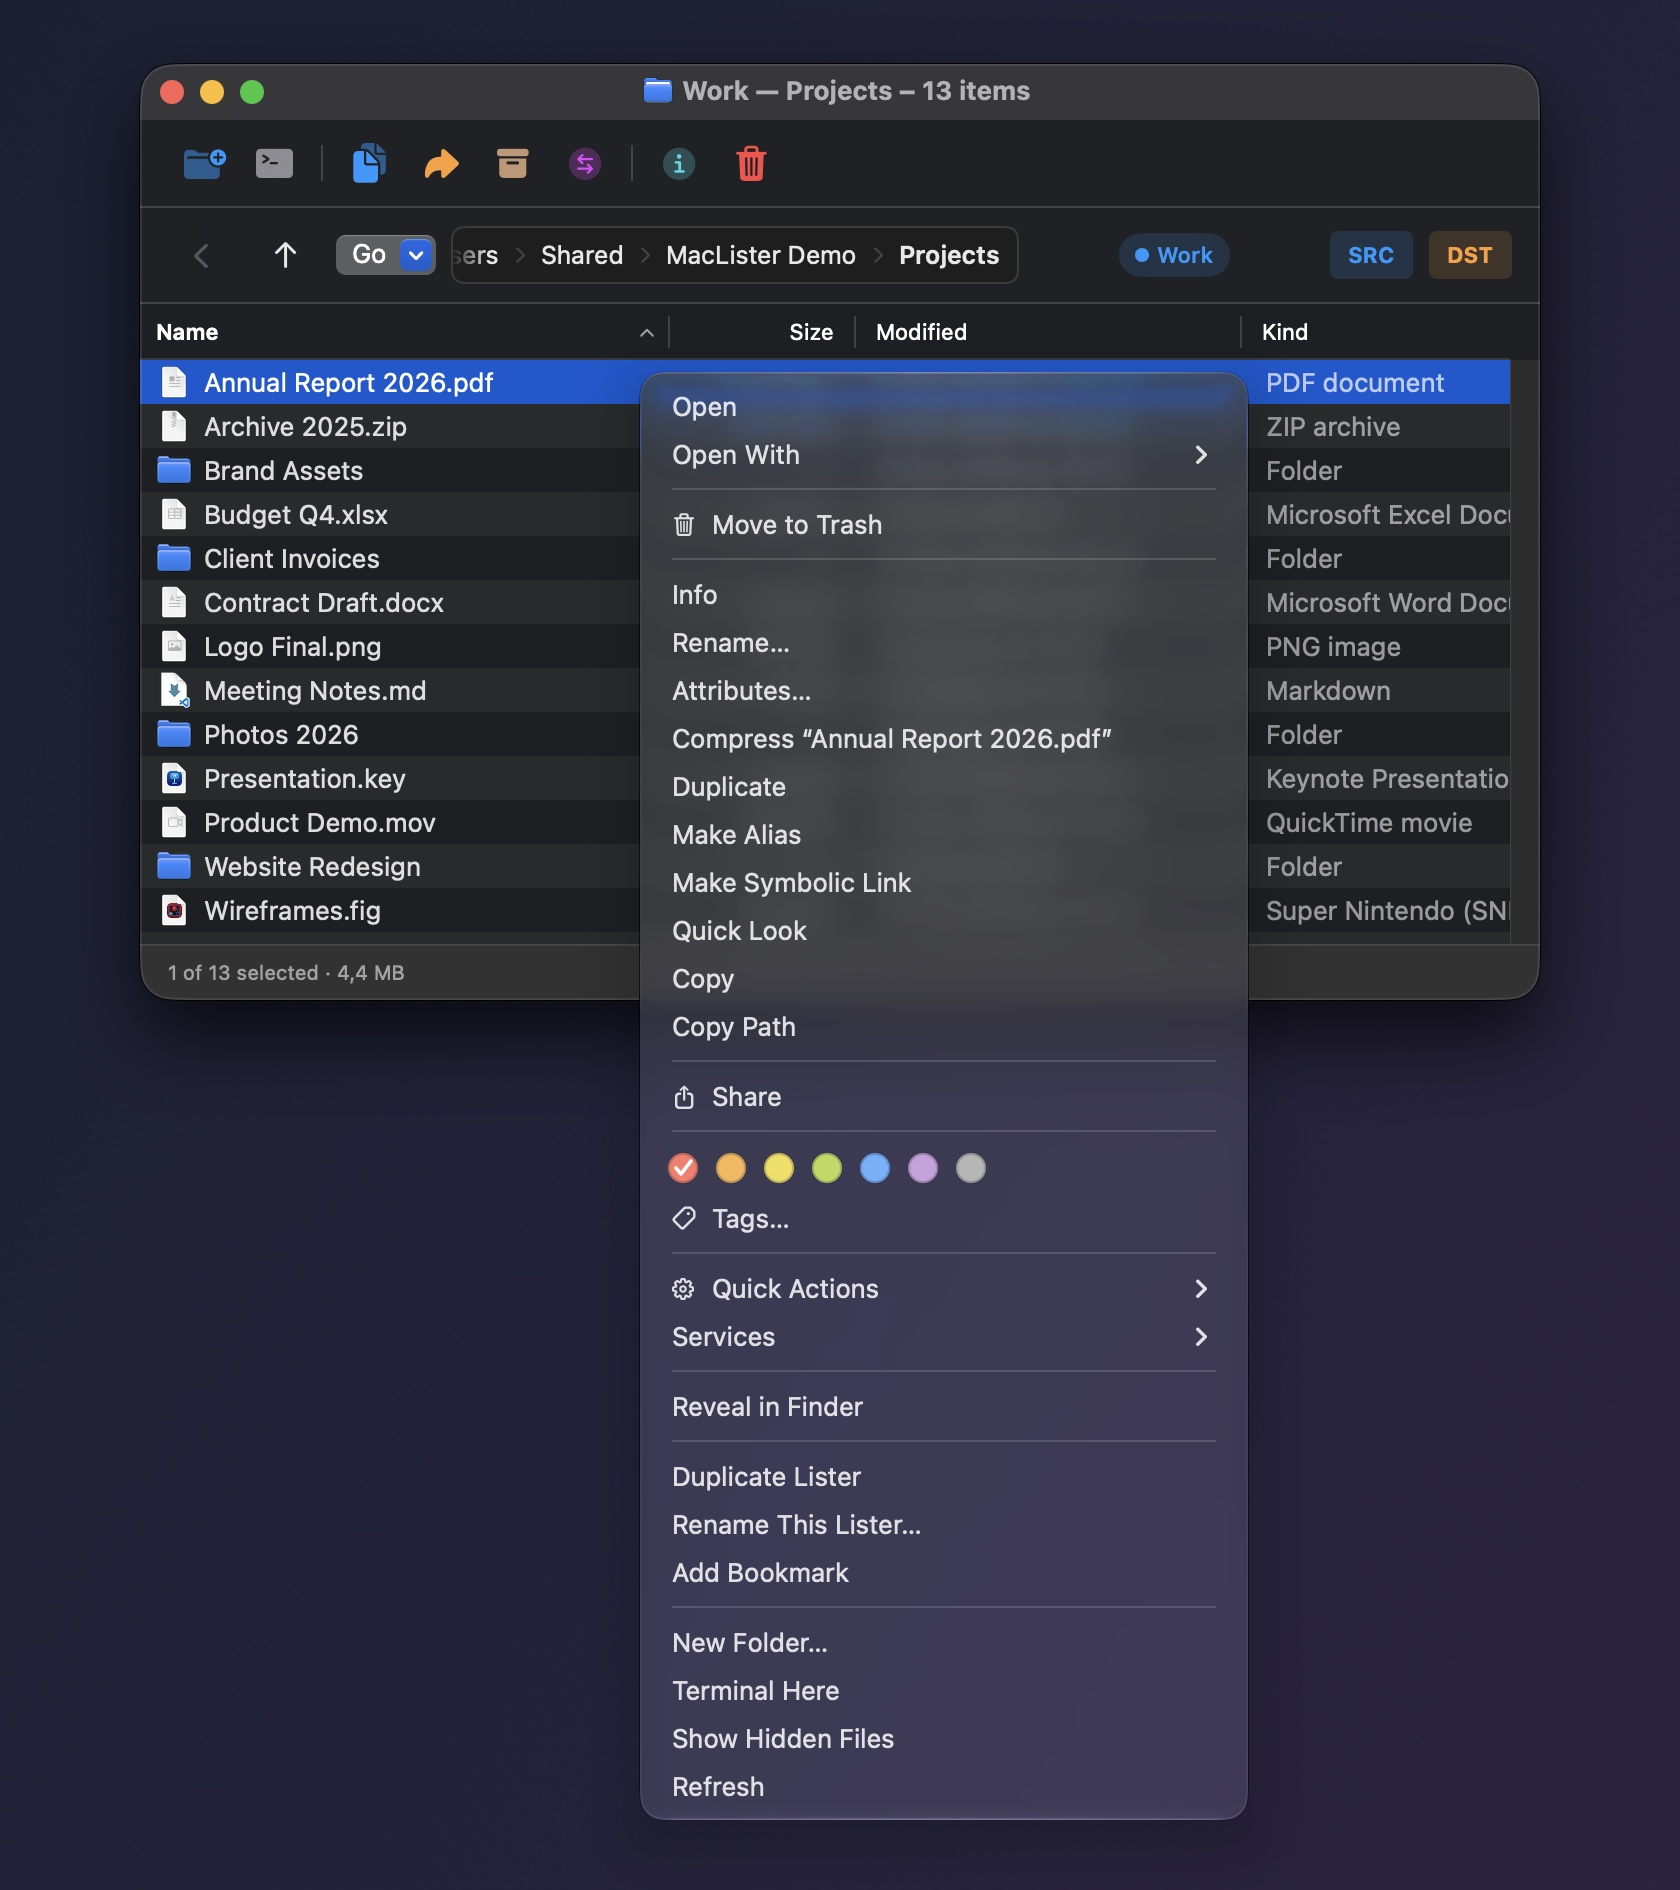
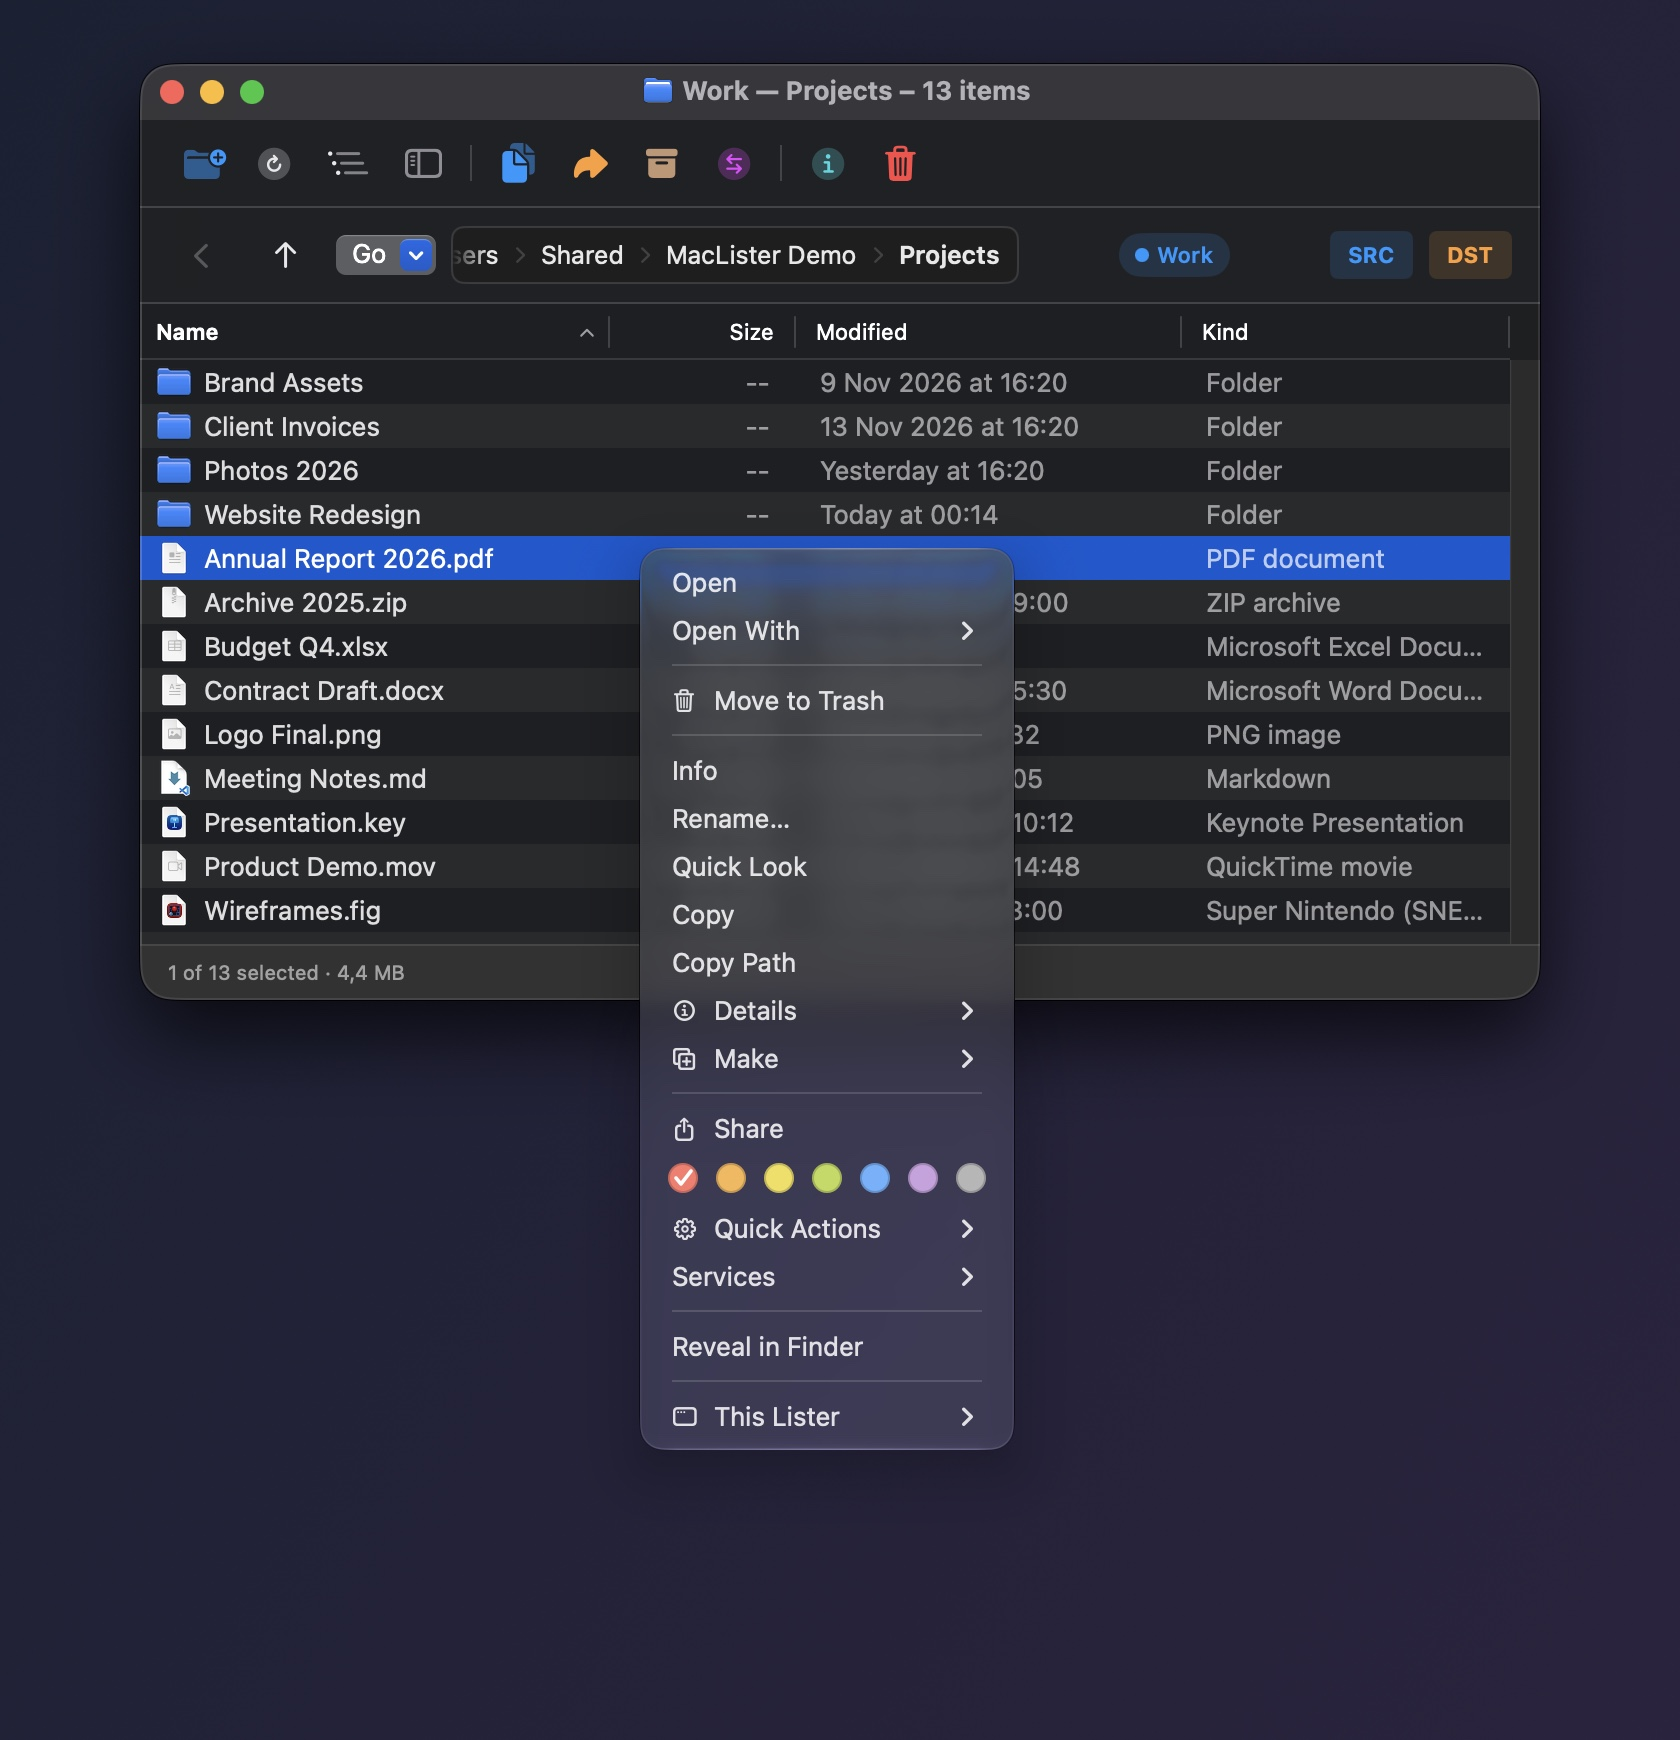
Menu screenshots for the README; clearer Folder tree button
- New context-menu, context-menu-dark and title-bar-menu pictures (the shorter menus); the title-bar menu is shown in both READMEs
- make_screenshots.sh starts the app with the folder tree off, so the pictures never show the user's own folders
- The Toggle tree action is called "Folder tree" and buttons get a tooltip for the newer actions
  (folder tree, find, duplicates, checksums, snapshot, synchronize, flat view, new text file, copy/move as)

Changed region(s): [[0.0619, 0.031, 0.9286, 0.9621]]

diff --git a/Sources/MacLister/SelfTestFeatures.swift b/Sources/MacLister/SelfTestFeatures.swift
@@ -383,6 +383,7 @@ enum SelfTestFeatures {
         }
         later(0.5) {
             guard let tvc = treeController.listerViewController else { return }
+            check(tvc.treeController.scrollView.frame.width >= 120 && !tvc.treeController.scrollView.isHidden, "the tree pane really has a width after layout: \(tvc.treeController.scrollView.frame) split \(tvc.splitView?.frame ?? .zero)")
             check(tvc.treeController.selectedURL?.standardizedFileURL == dirA.appendingPathComponent("big").standardizedFileURL, "the tree follows the lister into a sub-folder")
             tvc.treeController.onSelect?(dirA)
         }
@@ -582,8 +583,8 @@ enum SelfTestFeatures {
             check(["Duplicate Lister", "New Lister", "Set as Source", "Set as Destination", "Swap Source and Destination",
                    "Parent", "Refresh", "Show Hidden Files", "Close Lister", "Close All Listers", "Save Layout", "Restore Layout",
                    "Name This Lister…", "Lister Title…", "Keyboard Shortcuts…", "Connect to Server…", "Terminal Here", "Undo", "Operation Log…",
-                   "Filter…", "Find…", "Find Duplicates…", "Flat View", "Show Folder Tree", "Snapshot This Folder", "Bookmarks", "Recent Folders",
-                   "Bring All Listers to Front", "Move All Listers to This Desktop", "Lock Role"].allSatisfy { wanted in titles.contains { $0.hasPrefix(wanted) } },
+                   "Filter…", "Find…", "Find Duplicates…", "Flat View", "Folder Tree", "Snapshot This Folder", "Bookmarks", "Recent Folders",
+                   "Bring All Listers to Front", "Move All Listers to This Desktop", "Lock Role"].allSatisfy { wanted in titles.contains { $0.hasPrefix(wanted) || $0.hasSuffix(wanted) } },
                   "title-bar menu still has every lister command: \(titles.filter { !$0.isEmpty })")
             check((menu?.items.filter { !$0.isSeparatorItem }.count ?? 99) <= 16, "the title-bar menu is short on its first level: \(menu?.items.filter { !$0.isSeparatorItem }.map(\.title) ?? [])")
             let rolesMenu = menu?.items.first { $0.title == "Source and Destination" }?.submenu

diff --git a/Sources/MacLister/Shortcuts.swift b/Sources/MacLister/Shortcuts.swift
@@ -365,10 +365,35 @@ enum GlobalShortcutActions {
 extension ListerAction {
     /// "swapSourceDestination" → "Swap source destination"
     var title: String {
+        if let custom = Self.friendlyTitles[self] { return tr(custom) }
         var words = ""
         for character in rawValue {
             if character.isUppercase { words += " " + character.lowercased() } else { words.append(character) }
         }
         return tr(words.prefix(1).uppercased() + words.dropFirst())
+    }
+}
+
+extension ListerAction {
+    /// Names that read better than the one made from the action's code name.
+    static let friendlyTitles: [ListerAction: String] = [.toggleTree: "Folder tree"]
+
+    /// What a button with this action shows as its tooltip when it has none of its own. English: like the texts in
+    /// buttons.json it is translated when it is shown.
+    var defaultHelp: String? {
+        switch self {
+        case .toggleTree: return "Show or hide the folder tree beside the list (⌥⌘T)"
+        case .find: return "Search this folder and everything below it (⇧⌘F)"
+        case .findDuplicates: return "Find files with the same content below this folder"
+        case .checksums: return "MD5, SHA-1, SHA-256 and SHA-512 of the selected files"
+        case .snapshot: return "Remember this window's size, position and sort order for this folder"
+        case .forgetSnapshot: return "Forget the snapshot of this folder"
+        case .synchronize: return "Compare the source and destination folders and copy what differs"
+        case .flatView: return "Show every file below this folder as one list"
+        case .newTextFile: return "Create a text file here and open it in your text editor"
+        case .copyAs: return "Copy to the destination under new names (⇧F5)"
+        case .moveAs: return "Move to the destination under new names (⇧F6)"
+        default: return nil
+        }
     }
 }

diff --git a/Sources/MacLister/ButtonEditor.swift b/Sources/MacLister/ButtonEditor.swift
@@ -156,6 +156,7 @@ struct ButtonEditorView: View {
             let titles = [old.title, tr(old.title), tr("New Button"), "New Button", ""]
             if titles.contains(where: { edited.title.caseInsensitiveCompare($0) == .orderedSame }) { edited.title = tr(new.title) }
             if edited.symbol == nil || edited.symbol == old.suggestedSymbol || edited.symbol == "star.fill" { edited.symbol = new.suggestedSymbol }
+            if edited.help == nil || edited.help?.isEmpty == true || edited.help == old.defaultHelp { edited.help = new.defaultHelp }
             edited.action = new
             button.wrappedValue = edited
         })

diff --git a/Sources/MacLister/Bars.swift b/Sources/MacLister/Bars.swift
@@ -294,7 +294,7 @@ struct ButtonBarView: View {
     }
 
     private func help(for button: ListerButton) -> String {
-        let base = button.help.map { "\(tr(button.title)) – \(tr($0))" } ?? tr(button.title)
+        let base = (button.help ?? button.action.defaultHelp).map { "\(tr(button.title)) – \(tr($0))" } ?? tr(button.title)
         return button.hasExtraClicks ? base + "\n" + button.clickHelp : base
     }
 

diff --git a/README.pl.md b/README.pl.md
@@ -189,7 +189,10 @@ W wielu laptopach klawisze F wymagają **fn**.
   \[SRC\] / \[DST\]), Bring All to Front, Close All, *Duplicate Frontmost Lister*, układy, *Cofnij*, *Dziennik operacji…*,
   *Sprawdź aktualizacje…*, **Ustawienia…** (⌘,), stan uprawnień.
 
-<p align="center"><img src="docs/screenshots/context-menu.jpg" alt="Menu pod prawym przyciskiem dla pliku: Otwórz, Otwórz w aplikacji, Przenieś do Kosza, Informacje, Kompresuj, Udostępnij, kolory tagów, Szybkie czynności, Usługi i własne polecenia MacLister" width="420"></p>
+<p align="center">
+  <img src="docs/screenshots/context-menu.jpg" alt="Menu pod prawym przyciskiem dla pliku: Otwórz, Otwórz w aplikacji, Przenieś do Kosza, Informacje, Zmień nazwę, Szybki podgląd, Kopiuj, podmenu Szczegóły i Utwórz, Udostępnij, kolory tagów, Szybkie czynności, Usługi, Pokaż w Finderze i Ten lister" width="320">
+  <img src="docs/screenshots/title-bar-menu.jpg" alt="Menu pod prawym przyciskiem na belce okna: Parent, Back, Refresh, Zakładki, Ostatnie foldery, podmenu Widok, Szukaj i Źródło i cel, Cofnij, Dziennik operacji, Połącz z serwerem, Terminal tutaj, podmenu Lister i Wszystkie listery oraz Zamknij lister" width="320">
+</p>
 
 ### Ustawienia
 

diff --git a/README.md b/README.md
@@ -186,7 +186,10 @@ On many laptops F-keys need **fn**.
   \[SRC\] / \[DST\]), Bring All to Front, Close All, *Duplicate Frontmost Lister*, layouts, *Undo*, *Operation Log…*,
   *Check for Updates…*, **Settings…** (⌘,), permission status.
 
-<p align="center"><img src="docs/screenshots/context-menu.jpg" alt="The context menu of a file: Open, Open With, Move to Trash, Info, Rename, Compress, Duplicate, Make Alias, Share, tag colours, Quick Actions, Services and MacLister's own commands" width="420"></p>
+<p align="center">
+  <img src="docs/screenshots/context-menu.jpg" alt="The context menu of a file: Open, Open With, Move to Trash, Info, Rename, Quick Look, Copy, the Details and Make submenus, Share, tag colours, Quick Actions, Services, Reveal in Finder and This Lister" width="320">
+  <img src="docs/screenshots/title-bar-menu.jpg" alt="The menu under a right-click on the title bar: Parent, Back, Refresh, Bookmarks, Recent Folders, the View, Search and Source and Destination submenus, Undo, Operation Log, Connect to Server, Terminal Here, the Lister and All Listers submenus and Close Lister" width="320">
+</p>
 
 ### Settings
 
